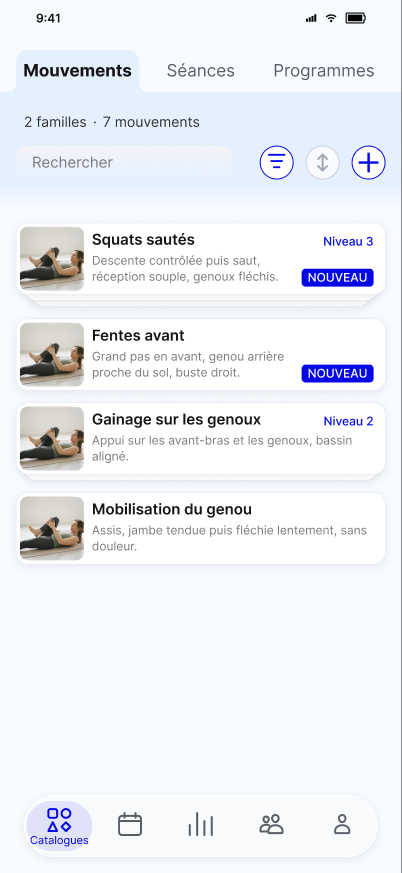
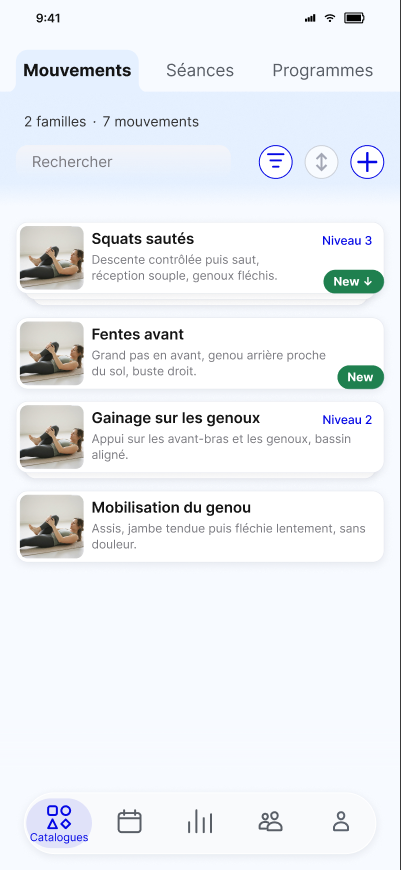
docs: badge New du catalogue des mouvements, rendu révisé (D-510)
Classe B : New en gras, vert d'état, accolé au coin bas droit ; New ↓ sur
la tête de pile.

Claude-Session: https://claude.ai/code/session_01SgPCgP1afjHHdeUEm3cke2

diff --git a/docs/KODJO-Badge-Nouveau-catalogue-mouvements-2026-11-06.md b/docs/KODJO-Badge-Nouveau-catalogue-mouvements-2026-11-06.md
@@ -1,4 +1,4 @@
-# KODJO — Badge « NOUVEAU » dans le catalogue des mouvements — spec différentielle
+# KODJO — Badge « New » dans le catalogue des mouvements — spec différentielle
 
 **Date :** 6 novembre 2026.
 
@@ -6,7 +6,7 @@
 
 **Statut :** intégrée le 6/11/2026 : registre (D-510), contrat CE-MVT-03 et Figma.
 
-**Figma :** composant « Carte — Mouvement » (`10124:21979`), propriété de variante « Nouveau » (Non / Oui), variante « Sélection=Absente, Nouveau=Oui » `11762:2205` ; écran « Mouvement — Catalogue — Fiche créée » `11762:23747` (fiche seule « Fentes avant » et pile repliée « Squats sautés »).
+**Figma :** composant « Carte — Mouvement » (`10124:21979`), propriété de variante « Nouveau » (Non / Oui / Dans la pile), variantes « Sélection=Absente, Nouveau=Oui » `11762:2205` et « Sélection=Absente, Nouveau=Dans la pile » `11765:2101` ; écran « Mouvement — Catalogue — Fiche créée » `11762:23747` (fiche seule « Fentes avant » : « New » ; pile repliée « Squats sautés » : « New ↓ »).
 
 **Référence :**
 - [KODJO-Catalogues-cartes-modales-2026-11-06](KODJO-Catalogues-cartes-modales-2026-11-06.md), §7 : la carte Mouvement et les piles ;
@@ -20,8 +20,8 @@ Après une création, la nouvelle fiche se range selon le tri en cours, et parfo
 
 | | Avant | Après |
 |---|---|---|
-| Carte Mouvement après création | aucun repère | badge « NOUVEAU » en bas à droite |
-| Pile repliée qui contient une fiche nouvelle | aucun repère | badge « NOUVEAU » sur la carte de tête de la pile |
+| Carte Mouvement après création | aucun repère | badge « New » au coin bas droit |
+| Pile repliée qui contient une fiche nouvelle | aucun repère | badge « New ↓ » sur la carte de tête de la pile |
 | Position de la liste au retour dans le catalogue | inchangée | la liste défile jusqu'à la fiche nouvelle |
 
 Le reste est inchangé : carte, tri, filtres, piles, gestes et données.
@@ -41,7 +41,7 @@ Le reste est inchangé : carte, tri, filtres, piles, gestes et données.
    Ouvrir la fiche puis revenir au catalogue ne le retire pas.
 4. **Pas de donnée enregistrée.** Le marquage n'est pas stocké : c'est un état d'affichage du moment. Il disparaît aussi si l'application est fermée.
 5. **Plusieurs créations.** Toutes les fiches créées depuis la dernière sortie du catalogue portent le badge.
-6. **Pile.** La carte de tête d'une pile repliée porte le badge si l'un de ses niveaux est nouveau. Pile déployée : le badge figure sur la carte du niveau concerné, et non plus sur la tête.
+6. **Pile.** La carte de tête d'une pile repliée porte « New » si elle est elle-même nouvelle, et « New ↓ » dès qu'un niveau caché sous elle est nouveau : la flèche indique que la fiche créée est sous la pile. Pile déployée : « New » figure sur la carte de chaque niveau concerné.
 7. **Filtres.** Le badge ne modifie ni les filtres ni le tri. Une fiche nouvelle exclue par un filtre actif ne s'affiche pas.
 8. **Défilement.** Au retour dans le catalogue après une création, la liste se positionne sur la fiche nouvelle. Si elle est dans une pile repliée, la liste se positionne sur la pile, sans la déployer.
 9. **Hors catalogue.** Le badge n'apparaît que dans l'onglet Mouvements du catalogue. Il n'apparaît pas dans le mode catalogue des questionnaires de Formats, ni dans les autres listes de mouvements.
@@ -49,10 +49,10 @@ Le reste est inchangé : carte, tri, filtres, piles, gestes et données.
 ## 4. Rendu
 
 **Badge :**
-- **Position :** en bas à droite de la carte, à 12 px du bord droit et à 8 px du bas. Son bord droit est aligné sur celui de « Niveau X ».
-- **Texte :** « NOUVEAU » en majuscules, Inter Medium 12, comme « Niveau X », blanc.
-- **Fond :** bleu KODJO (`color/primary`), rayon 4, marge interne de 6 px à l'horizontale et de 1 px à la verticale, soit environ 18 px de haut.
-- **Couleur, raison du choix :** le rouge est réservé à la suppression (« Supprimer » dans les actions glissées). Un badge rouge sur une fiche qu'on vient de créer ferait croire à une erreur.
+- **Position :** accolé au coin bas droit de la carte, sans marge, bords droit et bas confondus avec ceux de la carte.
+- **Forme :** rayon 12 sur les quatre coins, celui de la carte ; 24 px de haut, marge interne de 10 px à l'horizontale.
+- **Texte :** « New », seule la première lettre en majuscule, Inter Bold 12, blanc ; « New ↓ » sur la tête d'une pile (règle 6).
+- **Couleur :** vert `color/status/positive-text` (#1F804F). Le badge n'est pas une action : le bleu KODJO, qui signale ce qui se touche (boutons, valeurs modifiables), induirait en erreur ; le rouge est réservé à la suppression. Le vert d'état « positif » se lit comme un ajout ; ce ton foncé garde le contraste du texte blanc en petit corps (environ 5:1).
 
 **Description de la carte :**
 - Tant que le badge est affiché, la description est limitée à la largeur qui précède le badge, avec 8 px d'écart. Elle reste sur deux lignes au plus, avec des points de suspension.
@@ -62,7 +62,7 @@ Le reste est inchangé : carte, tri, filtres, piles, gestes et données.
 **Mode sélection :** le badge n'existe pas dans ce mode, conformément à la règle 9.
 
 **Accessibilité :**
-- Le badge est annoncé avec le nom : « Squats sautés, nouveau ».
+- Le badge est annoncé avec le nom : « Squats sautés, nouveau » ; sur la tête d'une pile : « Squats sautés, contient un niveau nouveau ».
 - Le badge n'est pas une cible tactile.
 
 ## 5. Impacts

diff --git a/docs/INDEX.md b/docs/INDEX.md
@@ -5,7 +5,7 @@
 **D-499 — précision validée par Hermann le 06/11/2026 :** « Valider les paramètres » apparaît uniquement lorsqu’une seconde étape est nécessaire et ouvre le récapitulatif sans enregistrer dans la séance. Dans ce cas, la coche du questionnaire reste grise et inactive. Sans seconde étape, la coche enregistre dans la séance lorsque les données sont complètes et cohérentes. Dans le récapitulatif, elle devient bleue et active lorsque les données sont complètes et cohérentes, puis enregistre dans la séance. Death by à un mouvement : questionnaire → coche → Composition, sans récapitulatif ; à deux mouvements : questionnaire → « Valider les paramètres » → récapitulatif → coche → Composition. L’enregistrement reste un ajout au brouillon de Composition, sans sauvegarde définitive de la Séance. Cette précision supersède la suppression générale du bouton dans les questionnaires ; les autres validations par coche restent applicables.
 
 - [Catalogues, cartes et validation des modales — 5 et 6 novembre 2026](KODJO-Catalogues-cartes-modales-2026-11-06.md) : coche d’en-tête des modales, mode catalogue direct, couleurs par catalogue, onglets, cartes Séance et Mouvement, carte dépliée, écart du code (D-499 à D-509).
-- [Badge « NOUVEAU » dans le catalogue des mouvements — 6 novembre 2026](KODJO-Badge-Nouveau-catalogue-mouvements-2026-11-06.md) : intégrée le 6/11/2026 (D-510).
+- [Badge « New » dans le catalogue des mouvements — 6 novembre 2026](KODJO-Badge-Nouveau-catalogue-mouvements-2026-11-06.md) : intégrée le 6/11/2026 (D-510).
 - [Spécification active](KODJO-Formats-entrainement-2026-11-02.md) : création commune Catalogue/Composition, menu trois options, tableaux EMOM par série, Superset alterné, charges locales et règles Death by Répétitions/Durée. [Complément final du 5 novembre](sources/formats-2026-11-05/KODJO-Complement-Parcours-creation-2026-11-05.md), appliqué à la base finale du 4 novembre. Validation EMOM bloquante ; Death by averti au premier rang incompatible puis borné à l’exécution.
 - [Contrats CE-FMT-01 à 04](Specifications-fonctionnelles/13%20%E2%80%93%20Contrats%20d%E2%80%99%C3%A9cran.md#ce-fmt-01).
 - [Galerie et état des captures](Specifications-fonctionnelles/06%20%E2%80%93%20Ecrans%20et%20navigation%20de%20la%20V1.md#formats-galerie).

diff --git a/docs/Specifications-fonctionnelles/13 – Contrats d’écran.md b/docs/Specifications-fonctionnelles/13 – Contrats d’écran.md
@@ -41,7 +41,7 @@ Toute valeur initialisée depuis un défaut du Profil est présentée dans son c
 
 **Révision du 06/11/2026 (D-508) :** carte Mouvement de 72 pt, photo à 4 pt et rayon 8, fond blanc, liseré à 50 %, niveau à 12 pt du bord aligné sur la ligne de base du nom ; feuilles de pile 72 pt, blanches, même liseré et même ombre que la carte ; écran au fond et à la zone de contexte du catalogue Mouvements (D-501). [KODJO-Catalogues-cartes-modales-2026-11-06](../KODJO-Catalogues-cartes-modales-2026-11-06.md) §7.
 
-**Complément du 06/11/2026 (D-510) :** état « fiche nouvelle ». Toute fiche créée (bouton +, Ajouter un niveau, duplication, ajout depuis la Composition) porte le badge « NOUVEAU » au premier affichage du catalogue qui suit ; la carte de tête d’une pile repliée le porte si l’un de ses niveaux est nouveau. Le badge disparaît au changement de vue par les onglets du haut ou la barre du bas, et à la fermeture de l’app ; il n’est pas enregistré. Au retour après création, la liste défile jusqu’à la fiche (ou sa pile, sans la déployer). Écran « Mouvement — Catalogue — Fiche créée » `11762:23747`. Règles complètes : [KODJO-Badge-Nouveau-catalogue-mouvements-2026-11-06](../KODJO-Badge-Nouveau-catalogue-mouvements-2026-11-06.md).
+**Complément du 06/11/2026 (D-510) :** état « fiche nouvelle ». Toute fiche créée (bouton +, Ajouter un niveau, duplication, ajout depuis la Composition) porte le badge « New » au premier affichage du catalogue qui suit ; la carte de tête d’une pile repliée porte « New ↓ » si un niveau caché sous elle est nouveau. Le badge disparaît au changement de vue par les onglets du haut ou la barre du bas, et à la fermeture de l’app ; il n’est pas enregistré. Au retour après création, la liste défile jusqu’à la fiche (ou sa pile, sans la déployer). Écran « Mouvement — Catalogue — Fiche créée » `11762:23747`. Règles complètes : [KODJO-Badge-Nouveau-catalogue-mouvements-2026-11-06](../KODJO-Badge-Nouveau-catalogue-mouvements-2026-11-06.md).
 
 ### 1. Identification
 

diff --git a/docs/Specifications-fonctionnelles/07 – Registre des décisions de conception.md b/docs/Specifications-fonctionnelles/07 – Registre des décisions de conception.md
@@ -1276,4 +1276,4 @@ Source : [KODJO-Catalogues-cartes-modales-2026-11-06](../KODJO-Catalogues-cartes
 | D-507 | Carte dépliée : « Cycle » + « N passages » à droite ; « Circuit · séries groupées | alternées » + « N tours » à droite ; volumes « rép. ». | Hermann, 06/11/2026 | CE-T03-01 |
 | D-508 | Carte Mouvement et feuilles de pile : 72 pt, photo 4/rayon 8, blanc, liseré 50 %, niveau aligné sur le nom ; feuilles avec la même ombre que la carte. | Hermann, 06/11/2026 | CE-MVT-03 |
 | D-509 | Le code ne doit plus utiliser `selectionSurface` (#E5F0FF) pour la zone de contexte ; jetons par catalogue (D-501). Écart historique : classe A ; nouvelles couleurs : classe B. | Constat 06/11/2026, décision D-501 | ch12, code |
-| D-510 | Badge « NOUVEAU » (fond bleu KODJO, texte blanc, Inter Medium 12, en bas à droite) sur les fiches créées depuis la dernière sortie du catalogue des mouvements et sur la carte de tête d’une pile repliée qui en contient ; disparaît au changement de vue (onglets du haut, barre du bas) ou à la fermeture de l’app ; non enregistré ; défilement vers la fiche créée ; description raccourcie tant que le badge est affiché. Catalogue des séances exclu. | Hermann, 06/11/2026 | [KODJO-Badge-Nouveau-catalogue-mouvements-2026-11-06](../KODJO-Badge-Nouveau-catalogue-mouvements-2026-11-06.md), CE-MVT-03 |
+| D-510 | Badge « New » (Inter Bold 12, blanc sur vert `color/status/positive-text`, accolé au coin bas droit, rayon 12) sur les fiches créées depuis la dernière sortie du catalogue des mouvements ; « New ↓ » sur la carte de tête d’une pile repliée dont un niveau caché est nouveau. Disparaît au changement de vue (onglets du haut, barre du bas) ou à la fermeture de l’app ; non enregistré ; défilement vers la fiche créée ; description raccourcie tant que le badge est affiché. Catalogue des séances exclu. | Hermann, 06/11/2026 | [KODJO-Badge-Nouveau-catalogue-mouvements-2026-11-06](../KODJO-Badge-Nouveau-catalogue-mouvements-2026-11-06.md), CE-MVT-03 |

diff --git a/.github/orchestration/reports/2026-11-06_BADGE_NOUVEAU_INTEGRATION.md b/.github/orchestration/reports/2026-11-06_BADGE_NOUVEAU_INTEGRATION.md
@@ -25,3 +25,11 @@
   - 1 image ;
   - ce rapport.
 - **Commit final et état Git :** donnés dans le compte rendu de livraison.
+
+## Révision du rendu (demande de Hermann, 16:13)
+
+- **Libellé :** « New » en Inter Bold 12, seule la première lettre en majuscule.
+- **Couleur :** vert `color/status/positive-text`. Le bleu signale ce qui se touche et le rouge la suppression ; le badge n'est pas interactif.
+- **Position :** badge accolé au coin bas droit, rayon 12 sur les quatre coins, 24 px de haut.
+- **Pile :** nouvelle variante « Nouveau=Dans la pile » `11765:2101` avec « New ↓ ». La flèche a été préférée au bord coloré de la deuxième feuille : un repère porté par la seule couleur est peu visible et non accessible.
+- **Mises à jour :** spec, D-510, CE-MVT-03, INDEX et capture.

diff --git a/docs/Specifications-fonctionnelles/06 – Ecrans et navigation de la V1.md b/docs/Specifications-fonctionnelles/06 – Ecrans et navigation de la V1.md
@@ -3526,6 +3526,6 @@ Nœud [11753:22133](https://www.figma.com/design/G6RY5Ebhgwb4AHIOYDwwvg?node-id=
 
 ##### Mouvement — Catalogue — Fiche créée
 
-Nœud [11762:23747](https://www.figma.com/design/G6RY5Ebhgwb4AHIOYDwwvg?node-id=11762-23747) · Export du 06/11/2026 · Badge « NOUVEAU » (D-510).
+Nœud [11762:23747](https://www.figma.com/design/G6RY5Ebhgwb4AHIOYDwwvg?node-id=11762-23747) · Export du 06/11/2026 · Badge « New » (D-510).
 
 ![Mouvement — Catalogue — Fiche créée](images/catalogues-2026-11-06/11762-23747.png)
